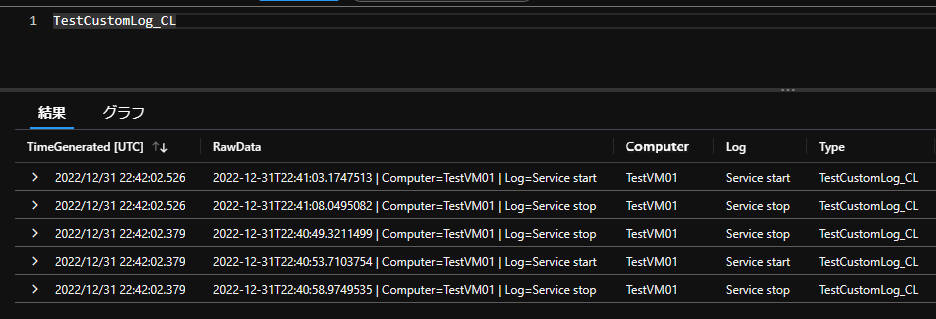
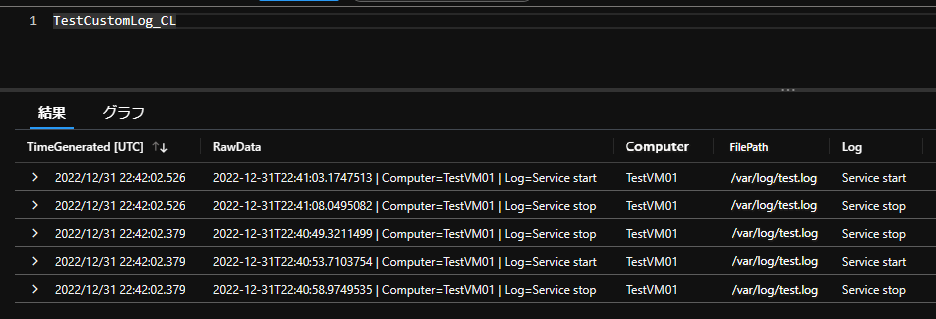
added filepath

diff --git a/articles/LogAnalytics/AMA_CustomLog.md b/articles/LogAnalytics/AMA_CustomLog.md
@@ -6,6 +6,11 @@ tags:
   - Log Analytics
 ---
 
+[更新履歴]
+
+2023/03/22 ブログ公開
+2026/05/17 最新情報への更新
+
 こんにちは、Azure Monitor サポートの三輪です。
 今回は Azure Monitor エージェントにて任意のテキスト ログ (カスタム ログ) を取得する方法についてご案内します。
 
@@ -86,6 +91,10 @@ https://learn.microsoft.com/ja-jp/azure/azure-monitor/agents/data-collection-tex
                                 "type": "String"
                        },
                        {
+                                "name": "FilePath",
+                                "type": "String"
+                       },
+                       {
                                 "name": "Log",
                                 "type": "String"
                        }
@@ -135,7 +144,7 @@ DCR を設定する
 6. [テーブル名] にはさきほど作成したテーブル名 (_CL 含む) を指定します。
 [Transform] には、以下のクエリを設定してデータを整形します。こちらの例は "Log=" に続く情報を Log カラムに収集しております。
 ```
-source| extend TimeGenerated = now() | parse RawData with * "Log=" Log 
+source | parse RawData with * "Log=" Log 
 ```
 ![](./AMA_CustomLog/AMACustomlog_08_202512.png)
 ※ TransformKql の書き方については、以下公開情報をご参考ください。